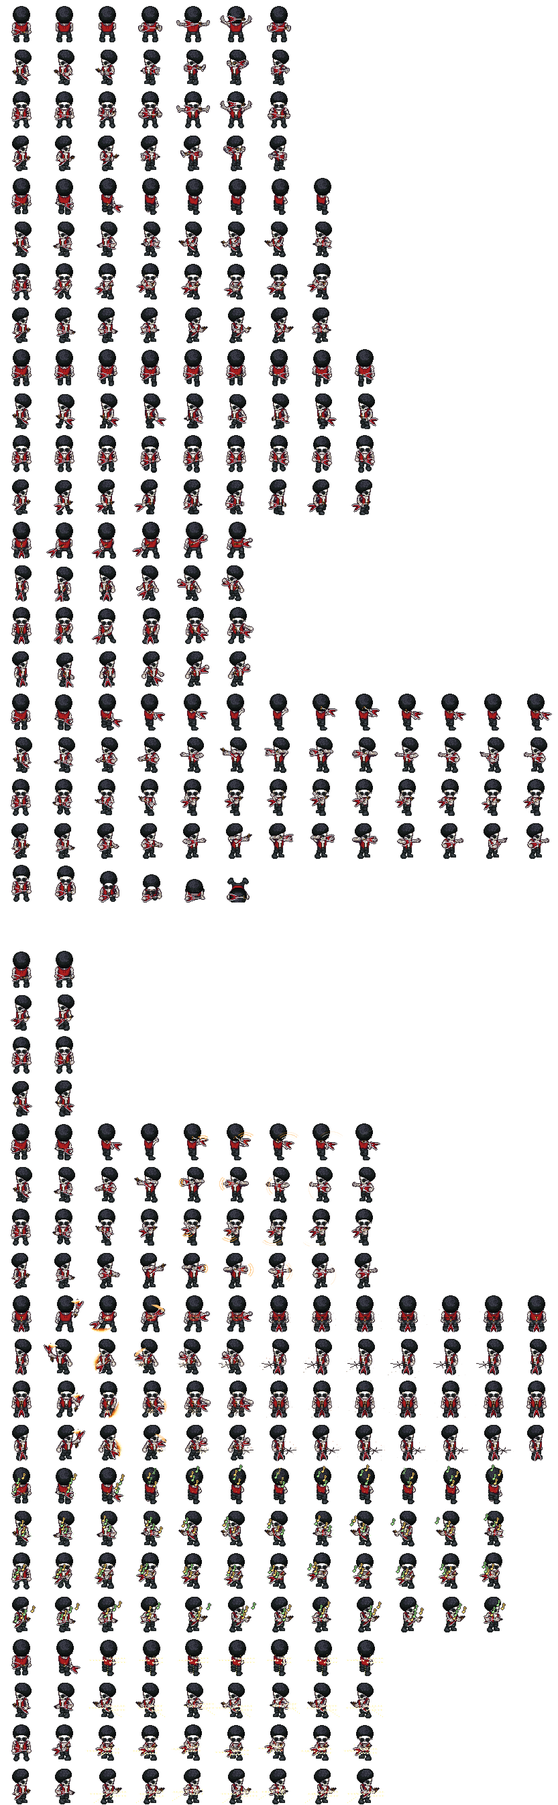
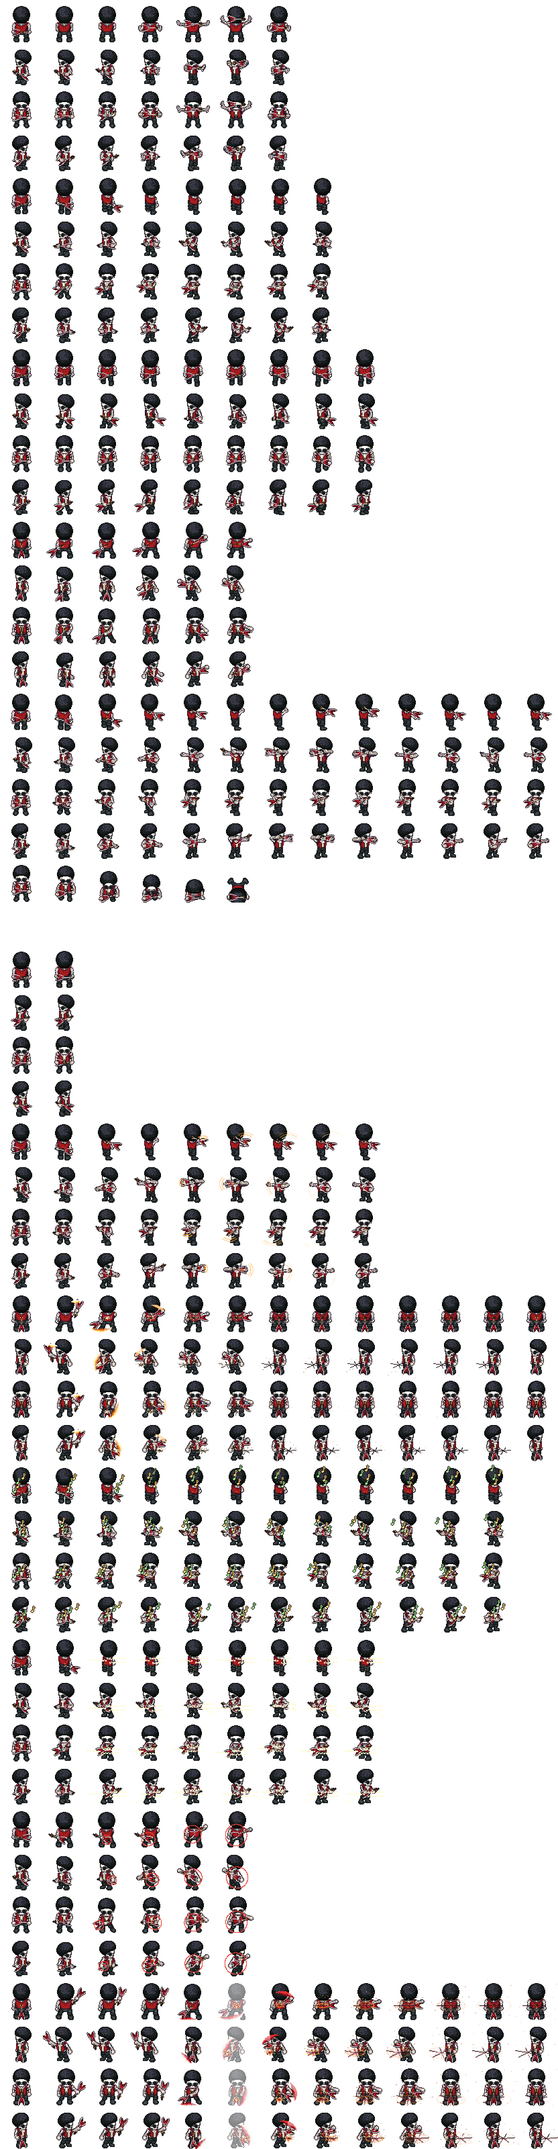
Riff Ossel : le Power chord (niveau 2) et le Solo de la hache (niveau 5) au terrain d'entraînement

diff --git a/src/entrainement/regles.js b/src/entrainement/regles.js
@@ -83,13 +83,14 @@ export const HEROS = {
     capacites: ['batonNoue', 'mueBete', 'mueCosa', 'mueIllumine', 'pousser', 'potion', 'relever'] },
   // Riff Ossel (content/classes/riff-ossel.json, par DonBabaa) : DEX 14 (+2), SAG 12 (+1), CHA 15 (+2), 110 PV, 6 cases (9 m),
   // le Rythme (+1 chaque fois qu'un allié attaque, 4 au plus, il retombe à 0 si aucun allié n'a attaqué de tout un tour).
-  // Riff (base, à 9 m ; au contact, le même coup à la hache) · Ballade (soutien) · Course effrénée (préparation). Pas de Power chord
-  // ni de Solo ici : ils viennent aux niveaux 2 et 5.
+  // Riff (base, à 9 m ; au contact, le même coup à la hache) · Ballade (soutien) · Course effrénée (préparation) ; le Power chord vient
+  // au niveau 2 et le Solo de la hache au niveau 5 (NIVEAU_RIFF, le réglage « riff.niveau » : le terrain les montre tous).
   'riff-ossel': { nom: 'Riff Ossel', court: 'RIF', auteur: 'DonBabaa', pv: 110, vitesse: 6, dex: 2, res: { type: 'Rythme', v: 1, max: 4 }, role: 'Soutien · rock à distance',
     faiblesse: 'Os fragiles : les dégâts de poussée, de mur et de chute lui font ×2.',
     passif: 'Rythme : +1 chaque fois qu’un allié attaque (4 au plus) ; il retombe à 0 si aucun allié n’a attaqué de tout un tour.',
-    capacites: ['riff', 'ballade', 'courseEffrenee', 'pousser', 'potion', 'relever'] },
+    capacites: ['riff', 'ballade', 'courseEffrenee', 'powerChord', 'solo', 'pousser', 'potion', 'relever'] },
 };
+export const NIVEAU_RIFF = { powerChord: 2, solo: 5 };
 export const RIFF = 'riff-ossel';
 // Les trois formes du Changepeau : leurs PV à elles et leur kit, qui remplace Bâton noué et la Mue (Pousser, la Potion et
 // Relever restent) ; « Quitter la forme » le rend orc, debout. Chacune a sa faiblesse.
@@ -107,7 +108,8 @@ export const capacitesDe = (a, b) => {
   const [S, x] = b === undefined ? [null, a] : [a, b];
   const u = typeof x === 'string' ? { type: x } : x;
   const base = u?.forme && FORMES[u.forme.id] ? [...FORMES[u.forme.id].capacites, 'pousser', 'potion', 'relever'] : HEROS[u?.type]?.capacites ?? [];
-  return S?.braseros?.some((br) => !br.renverse) ? [...base, 'renverser'] : base;
+  const lvl = lire('riff.niveau'), dispo = u?.type === RIFF ? base.filter((id) => !NIVEAU_RIFF[id] || lvl >= NIVEAU_RIFF[id]) : base;
+  return S?.braseros?.some((br) => !br.renverse) ? [...dispo, 'renverser'] : dispo;
 };
 const formeDe = (u) => u?.forme?.id ?? null;
 // Une classe faite par un joueur (« auteur » : son pseudo GitHub, comme dans content/classes/) ne se joue que par lui ;
@@ -222,6 +224,8 @@ export const CAPACITES = {
   riff: { nom: 'Riff', slot: 'action', type: 'attaque', portee: 6, mod: 2, base: 8, de: 4, anim: 'riff', animContact: 'contact', contact: true, ds: 'Portée 9 m · 5–7 / 11–14 / 22–28 ; au contact, le même coup à la hache (attaque d’opportunité)' },
   ballade: { nom: 'Ballade', slot: 'action', type: 'soin', portee: 6, soin: { base: 8, de: 4, mod: 1 }, retire: true, releve: true, anim: 'ballade',
     ds: 'Un allié à 9 m · 10–13 PV, sans jet ; retire Brûlure, Gelé ou Huilé · un allié KO : relevé à distance (2 Rythme, une fois par combat)' },
+  powerChord: { nom: 'Power chord', slot: 'bonus', type: 'puissance', portee: 6, cout: 1, anim: 'power', ds: '1 Rythme · la prochaine attaque d’un allié à 9 m fait +d6' },
+  solo: { nom: 'Solo de la hache', slot: 'action', type: 'attaque', portee: CONTACT, mod: 2, base: 14, de: 6, cout: 3, expose: true, recul: 3, anim: 'solo', ds: '3 Rythme · au contact : 15–20 / 30–40 · la cible est Exposée ; puis il bondit de 4,5 m en arrière, sans riposte' },
   courseEffrenee: { nom: 'Course effrénée', slot: 'bonus', type: 'course', portee: 6, cout: 1, anim: 'course', ds: '1 Rythme · un allié à 9 m gagne 3 m de déplacement ce tour et s’éloigne sans attaque d’opportunité' },
 };
 export const BABA = 'baba-brisenclume';
@@ -233,7 +237,7 @@ export const NOM_SURFACE = { eau: 'l’eau', huile: 'l’huile', feu: 'le feu', 
 export const NOM_PIEGE = { machoires: 'les mâchoires', glu: 'la glu', collet: 'le collet' };
 // Les capacités d'un héros dans ce combat : les siennes, plus « Renverser » tant qu'il reste un brasero debout.
 export const NOM_RESULTAT = { rate: 'Raté', eraflure: 'Éraflure', touche: 'Touché', critique: 'Critique' };
-export const NOM_ETAT = { surpris: 'Surpris', trempe: 'Trempé', huile: 'Huilé', brulure: 'Brûlure', gele: 'Gelé', aTerre: 'À terre', expose: 'Exposé', inspire: 'Inspiré', etourdi: 'Étourdi', lame: 'Lame ardente', bouclier: 'Trempe', ardent: 'Arme ardente', attire: 'Étreint' };
+export const NOM_ETAT = { puissance: 'Power chord', surpris: 'Surpris', trempe: 'Trempé', huile: 'Huilé', brulure: 'Brûlure', gele: 'Gelé', aTerre: 'À terre', expose: 'Exposé', inspire: 'Inspiré', etourdi: 'Étourdi', lame: 'Lame ardente', bouclier: 'Trempe', ardent: 'Arme ardente', attire: 'Étreint' };
 
 // --- Les surfaces : des taches sur une trame fine (un demi-pas de case), dessinées sans cases -----------------------
 const MAILLE = 0.5;
@@ -745,6 +749,7 @@ export function creerCombat({ trame, salle, departs, ennemis = null, tonneaux = 
     }
     cible.expose = false;
     if (att.st.inspire) delete att.st.inspire;          // le chant ne sert qu'une fois
+    const pc = att.st.puissance; if (pc) delete att.st.puissance;       // le Power chord aussi : sur le prochain coup, touché ou raté
     const qui = `${att.nom} → ${cible.nom} · ${A.nom}`;
     const label = A.auto ? 'critique assuré' : c.av ? `${jets[0]} et ${jets[1]} (${c.av === 1 ? 'avantage' : 'désavantage'}) → ${k}` : String(k);
     const mod = A.mod + c.haut;                         // (la hauteur s'ajoute au d20, comme la caractéristique)
@@ -760,6 +765,7 @@ export function creerCombat({ trame, salle, departs, ennemis = null, tonneaux = 
     const jet = d(A.de) + (A.de2 ? d(A.de2) : 0);
 
     let n = A.base + jet + A.dmod;
+    if (pc) { const b = d(6); n += b; log(`Power chord de ${U(pc.par)?.nom ?? 'Riff Ossel'} : +${b} aux dégâts.`, 'combo'); if (pc.par !== att.id) combo(pc.par, att.id, 'power chord'); flotter(att, `+${b} Power chord`, 'info'); }
     if (g === 'eraflure') n = Math.floor(n / 2);
     if (g === 'critique') n = Math.round(n * lire('des.critMult'));
     n = finalDeg(Math.round(n * c.mult), c.dm);
@@ -1847,7 +1853,7 @@ export function creerCombat({ trame, salle, departs, ennemis = null, tonneaux = 
     else if (cap.type === 'ombre') ennemisVivants().filter((u) => aPortee(h, cap, u) && sortieOmbre(h, u)).forEach((u) => out.push({ id: u.id }));
     else if (cap.type === 'bond') ennemisVivants().filter((u) => aPortee(h, cap, u) && atterrissage(h, u)).forEach((u) => out.push({ id: u.id }));
     else if (cap.type === 'ardent') herosVivants().filter((u) => u !== h && !u.familier && aPortee(h, cap, u)).forEach((u) => out.push({ id: u.id }));
-    else if (['inspiration', 'course'].includes(cap.type)) herosVivants().filter((u) => u !== h && dist(h, u) <= cap.portee).forEach((u) => out.push({ id: u.id }));
+    else if (['inspiration', 'course', 'puissance'].includes(cap.type)) herosVivants().filter((u) => u !== h && dist(h, u) <= cap.portee).forEach((u) => out.push({ id: u.id }));
     else if (cap.type === 'enclume') ennemisVivants().filter((u) => aPortee(h, cap, u)).forEach((u) => out.push({ id: u.id }));
     else if (cap.type === 'forge') herosVivants().filter((u) => !u.familier && (u === h || dist(h, u) <= CONTACT)).forEach((u) => out.push({ id: u.id }));
     else if (cap.type === 'tenailles') {
@@ -2001,6 +2007,7 @@ export function creerCombat({ trame, salle, departs, ennemis = null, tonneaux = 
         if (gain > 0) { h.forme.pv += gain; ev({ type: 'forme', id: h.id, pv: h.forme.pv, n: gain }); log(`${h.nom} dévore : +${gain} PV de forme.`, 'bon'); }
       }
       if (cap.curee && !h.ko && !h.mort) reculer(h, u, 2);
+      if (cap.recul && !h.ko && !h.mort) reculer(h, u, cap.recul);          // le Solo de la hache : le bond en arrière (4,5 m)
       return true;
     }
     if (cap.type === 'poussee') {
@@ -2109,6 +2116,13 @@ export function creerCombat({ trame, salle, departs, ennemis = null, tonneaux = 
       ev({ type: 'lance', id: h.id, cap: capId, anim: cap.anim, x: u.x, y: u.y });
       ev({ type: 'texte', id: u.id, texte: 'Inspiré !' });
       log(`${h.nom} chante pour ${u.nom} : avantage à sa prochaine attaque.`, 'bon');
+      return true;
+    }
+    if (cap.type === 'puissance' && u && u.camp === 'h' && !u.ko && !u.familier && u !== h && dist(h, u) <= cap.portee) {       // le Power chord
+      payer(h, cap); u.st.puissance = { par: h.id };
+      ev({ type: 'lance', id: h.id, cap: capId, anim: cap.anim, x: u.x, y: u.y });
+      ev({ type: 'texte', id: u.id, texte: '+d6 !' });
+      log(`${h.nom} lâche un power chord : la prochaine attaque de ${u.nom} fait +d6.`, 'bon');
       return true;
     }
     if (cap.type === 'course' && u && u.camp === 'h' && !u.ko && !u.familier && u !== h && dist(h, u) <= cap.portee) {       // la Course effrénée

diff --git a/src/entrainement/tests.js b/src/entrainement/tests.js
@@ -678,7 +678,8 @@ export async function selfTest(t, game) {
     t.ok(H.capacites.every((k) => CAPACITES[k] && icone(k)), 'chaque capacité a une icône');
     t.eq(['riff', 'riff-contact', 'ballade', 'courseEffrenee', 'pousser'].map((c) => sonDe('riff-ossel', c.split('-')[0], c.endsWith('contact') ? 'contact' : 'riff')), ['riff', 'riff-melee', 'ballade', 'course', null], 'ses sons : le Riff, le Fracas au contact, la Ballade, la Course effrénée');
     t.ok(sonDe('brute', 'fracas', 'attaque') === null, 'les autres classes n’ont pas de son (pour l’instant)');
-    t.eq(ordreBarre(H.capacites, CAPACITES).slice(0, 3), ['riff', 'courseEffrenee', 'ballade'], 'sa barre : Riff (attaque), Course effrénée (préparation), Ballade (soutien)');
+    t.eq(ordreBarre(H.capacites, CAPACITES).slice(0, 5), ['riff', 'courseEffrenee', 'solo', 'ballade', 'powerChord'], 'sa barre : Riff (attaque), Course effrénée (préparation), Solo (exploitation), Ballade et Power chord (soutien)');
+    t.eq(['powerChord', 'solo'].map((c) => sonDe('riff-ossel', c, 'x')), ['power', 'solo'], 'ses sons : le Power chord et le Solo de la hache');
   }
   const riff = (o = {}) => {
     const C = essai(['riff-ossel', 'brute', 'voleur', 'mage'], { alea: des(Array(60).fill(15)), ...o });
@@ -732,6 +733,40 @@ export async function selfTest(t, game) {
     r.res.v = 2; const mv = b.t.mv;
     t.ok(C.utiliser(r, 'courseEffrenee', { id: b.id }) && b.t.mv === mv + 2 && b.t.desengage && r.res.v === 1, 'la Course effrénée : l’allié gagne 3 m et s’éloigne sans attaque d’opportunité, pour 1 Rythme');
     t.ok(!r.t.bonus, 'elle prend l’action bonus');
+  }
+  {
+    // le Power chord (niveau 2) : 1 Rythme, action bonus ; la prochaine attaque de l'allié fait +d6, une seule fois
+    const { C, r, b, s } = riff();
+    r.res.v = 2; poser(C, b.id, 8.4, 10);
+    t.ok(C.cibles(r, CAPACITES.powerChord).some((x) => x.id === b.id) && !C.cibles(r, CAPACITES.powerChord).some((x) => x.id === r.id), 'le Power chord vise un allié à 9 m, pas Riff lui-même');
+    t.ok(C.utiliser(r, 'powerChord', { id: b.id }) && b.st.puissance && r.res.v === 1 && !r.t.bonus && r.t.action, 'il coûte 1 Rythme et l’action bonus (pas l’action)');
+    poser(C, s.id, 9.5, 10); const pv = s.pv, ok = C.utiliser(b, 'fracas', { id: s.id });
+    t.ok(ok && !b.st.puissance && pv - s.pv > 0, `la prochaine attaque de la Brute porte (${pv - s.pv} dégâts, avec le +d6) et le Power chord s’éteint`);
+    r.res.v = 0; r.t.bonus = true;
+    t.ok(!C.peutUtiliser(r, CAPACITES.powerChord), 'sans Rythme, pas de Power chord');
+  }
+  {
+    // le Solo de la hache (niveau 5) : 3 Rythme, au contact ; 14 + d6 + DEX, la cible est Exposée, puis le bond de 4,5 m en arrière
+    const { C, r, s } = riff();
+    r.res.v = 4; poser(C, r.id, 10.0, 10); poser(C, s.id, 11.1, 10);
+    t.ok(C.cibles(r, CAPACITES.solo).some((x) => x.id === s.id), 'le Solo vise l’ennemi au contact');
+    const pv = s.pv; C.S.evenements.length = 0;
+    t.ok(C.utiliser(r, 'solo', { id: s.id }) && r.res.v === 1 && !r.t.action, 'il coûte 3 Rythme et l’action');
+    t.ok(C.S.evenements.some((e) => e.type === 'attaque' && e.cap === 'solo' && e.anim === 'solo'), 'son animation « solo »');
+    t.ok(pv - s.pv >= 17 && s.expose, `il fait ${pv - s.pv} dégâts (17–22) et la cible est Exposée`);
+    const bond = dist(r, s) - 0.73;
+    t.ok(dist(r, { x: 10.0, y: 10 }) > 2.5 && dist(r, { x: 10.0, y: 10 }) <= 3 + 0.01 && bond > 0, `puis il bondit en arrière : ${(dist(r, { x: 10.0, y: 10 }) * 1.5).toFixed(1)} m`);
+    t.ok(C.S.evenements.some((e) => e.type === 'marche' && e.id === r.id), 'le bond se voit (un déplacement)');
+    r.res.v = 2; r.t.action = true; poser(C, r.id, 10.0, 10); poser(C, s.id, 11.1, 10);
+    t.ok(!C.peutUtiliser(r, CAPACITES.solo) || C.cibles(r, CAPACITES.solo).length === 0 || r.res.v < 3, 'sans 3 Rythme, pas de Solo');
+    t.ok(C._.attaqueReflexe(r)?.id === 'riff', 'le Solo n’est pas son attaque d’opportunité : c’est le Riff');
+  }
+  {
+    // le niveau : le Power chord vient au 2, le Solo au 5 (le réglage « riff.niveau », 5 au terrain)
+    const tous = (n) => { REG.regler('riff.niveau', n); return capacitesDe('riff-ossel').filter((k) => ['powerChord', 'solo'].includes(k)); };
+    const n1 = tous(1), n2 = tous(2), n5 = tous(5); REG.regler('riff.niveau', 5);
+    t.eq([n1, n2, n5], [[], ['powerChord'], ['powerChord', 'solo']], 'niveau 1 : ni l’un ni l’autre · niveau 2 : le Power chord · niveau 5 : le Solo aussi');
+    t.ok(capacitesDe('brute').length === 6 && !capacitesDe('mage').includes('solo'), 'les autres classes ne changent pas');
   }
   {
     // Os fragiles : poussée, mur et chute lui font ×2

diff --git a/src/entrainement/effets.js b/src/entrainement/effets.js
@@ -99,6 +99,7 @@ export function effetsAttaque(fx, cap, a, c, ennemi) {
     case 'devorer': taille('croissant-lourd'); return impact('impact-lourd', { x: c.x, y: c.y }, 0.26);
     case 'braise': return impact('impact-feu', t, projectile('boule-etincelle', m, 0.3));
     // Riff Ossel : une note qui file jusqu'à la cible ; au contact, le coup de hache (le Fracas : l'impact lourd)
+    case 'solo': taille('croissant-lourd'); return impact('impact-lourd', { x: c.x, y: c.y }, 0.4);      // le Solo de la hache : le Fracas dramatique
     case 'riff':
       if (Math.hypot(c.x - a.x, c.y - a.y) < 70) return impact('impact-lourd', { x: c.x, y: c.y }, 0.3);
       return impact('impact-etoile', t, projectile('note', { x: a.x + 14 * sens, y: a.y - 34 }, 0.32, 8));
@@ -132,6 +133,7 @@ export function effetsLance(fx, cap, a, p, u) {
     case 'armesArdentes': { const q = torse(u ?? p), d = vol(m, q); fx.jouer('boule-etincelle', { ...m, vers: q, retard: 0.25, duree: d, arc: 14 }); fx.jouer('impact-feu', { ...q, retard: 0.25 + d }); return 0.25 + d + 0.05; }
     case 'liane': fx.jouer('estoc', { x: a.x + 10 * sens, y: a.y - 28, retard: 0.25, miroir }); fx.jouer('poussiere', { x: p.x, y: p.y, retard: 0.35 }); return 0.45;
     case 'ballade': fx.jouer('colonne-verte', { x: p.x, y: p.y, retard: 0.4 }); fx.jouer('note', { ...m, vers: tete({ x: p.x, y: p.y }), retard: 0.3, duree: vol(m, p) * 1.4, arc: 10 }); return 0.6;
+    case 'powerChord': { const q = tete({ x: p.x, y: p.y }); fx.jouer('impact-etoile', { x: p.x, y: p.y - 24, retard: 0.4 }); fx.jouer('note', { ...m, vers: q, retard: 0.3, duree: vol(m, q) * 1.2, arc: 12 }); return 0.55; }
     case 'courseEffrenee': { const q = tete({ x: p.x, y: p.y }); fx.jouer('impact-etoile', { x: p.x, y: p.y - 24, retard: 0.45 }); fx.jouer('note', { ...m, vers: q, retard: 0.3, duree: vol(m, q) * 1.2, arc: 6 }); return 0.55; }
     case 'chant': { const q = tete({ x: p.x, y: p.y }); let fin = 0; for (let k = 0; k < 3; k++) { const d = vol(m, q) * 1.4; fx.jouer('note', { ...m, vers: q, retard: 0.2 + k * 0.15, duree: d, arc: 10 }); fin = 0.2 + k * 0.15 + d; } return fin; }
     case 'moquerie': { const q = tete({ x: p.x, y: p.y }), d = vol(m, q) * 1.3; fx.jouer('bulle-moquerie', { x: a.x, y: a.y - 56, vers: q, retard: 0.2, duree: d, arc: 12 }); fx.jouer('colere', { x: q.x + 8, y: q.y - 4, retard: 0.2 + d, duree: 0.9 }); return 0.2 + d + 0.1; }

diff --git a/src/entrainement/fiches.js b/src/entrainement/fiches.js
@@ -21,7 +21,7 @@ const ICONES = {
   batonNoue: 'baton', mueBete: 'mue', mueCosa: 'mue', mueIllumine: 'mue', quitterForme: 'mue',
   crocs: 'crocs', bond: 'bond', curee: 'curee', poing: 'poing', etreinte: 'liane', devorer: 'devorer',
   braise: 'etincelle', embrasement: 'embrasement', armesArdentes: 'lameArdente',
-  riff: 'tirRapide', ballade: 'soin', courseEffrenee: 'chant',          // (en attendant leurs icônes à eux)
+  riff: 'tirRapide', ballade: 'soin', courseEffrenee: 'chant', powerChord: 'ralliement', solo: 'fracas',          // (en attendant leurs icônes à eux)
 };
 // La sorte de chaque capacité, pour la barre des sorts (les sortes de CLASS_TEMPLATE.fr.md, plus le familier et le commun).
 // Une capacité absente d'ici prend sa sorte d'après ce qu'elle fait (sorteDe).
@@ -46,7 +46,7 @@ const SORTE = {
 export function sorteDe(id, cap) {
   if (SORTE[id]) return SORTE[id];
   if (cap.chien) return 'familier';
-  if (['soin', 'soinZone', 'inspiration'].includes(cap.type)) return 'soutien';
+  if (['soin', 'soinZone', 'inspiration', 'puissance'].includes(cap.type)) return 'soutien';
   if (cap.type === 'attaque') return cap.cout || cap.contreGele ? 'exploitation' : 'base';
   return 'preparation';
 }
@@ -115,6 +115,7 @@ export function resume(cap) {
     case 'attraction': return `attire ${metres(cap.longueur)} m`;
     case 'inspiration': return 'avantage';
     case 'course': return '+3 m · désengagé';
+    case 'puissance': return '+d6 au prochain coup';
     case 'forge': return cap.forge === 'lame' ? '+d6 · feu' : 'bouclier 10';
     case 'tenailles': return `attire ${metres(cap.longueur)} m`;
     case 'moquerie': return 'Exposé';

diff --git a/src/entrainement/vue.js b/src/entrainement/vue.js
@@ -26,7 +26,7 @@ export const always = true;
 const DIR = { haut: 0, gauche: 1, bas: 2, droite: 3 };
 // Les rangées LPC (64 px) et leur nombre d'images : sort, estoc, marche, taille, tir, blessé, repos.
 // (riff, contact, ballade, course : les animations de Riff Ossel, une par sort, sous les rangées LPC de sa planche)
-const ANIM = { sort: [0, 7], estoc: [4, 8], marche: [8, 9], attaque: [12, 6], tir: [16, 13], blesse: [20, 6], repos: [22, 2], riff: [26, 9], contact: [30, 13], ballade: [34, 12], course: [38, 9] };
+const ANIM = { sort: [0, 7], estoc: [4, 8], marche: [8, 9], attaque: [12, 6], tir: [16, 13], blesse: [20, 6], repos: [22, 2], riff: [26, 9], contact: [30, 13], ballade: [34, 12], course: [38, 9], power: [42, 6], solo: [46, 13] };
 const VITESSE_MARCHE = 5 * T;          // 5 cases par seconde à l'écran (le temps réel du jeu, pas la règle)
 const COULEURS = {
   eau: [[46, 120, 196], [70, 150, 220], [148, 206, 244], [24, 78, 140]],

diff --git a/src/entrainement/etats.js b/src/entrainement/etats.js
@@ -9,6 +9,7 @@ export const DOSSIER_ETATS = './assets/lpc/etats/';
 // compte(u) : les tours qui restent (le nombre sous l'icône), ou null s'il n'y en a pas.
 const SENS = [
   { id: 'inspire', genre: 'bonus', effet: () => 'Avantage à sa prochaine attaque.', compte: () => null },
+  { id: 'puissance', genre: 'bonus', icone: 'lame', effet: () => 'Sa prochaine attaque fait +d6 (le Power chord de Riff Ossel).', compte: () => null },
   { id: 'lame', genre: 'bonus', effet: () => 'Sa prochaine attaque fait +d6 et compte comme du feu (Huilé ×2, enflamme l’huile).', compte: () => null },
   { id: 'ardent', genre: 'bonus', icone: 'lame', effet: () => 'Ses coups donnent la Brûlure et enflamment l’huile (les Armes ardentes de l’Illuminé).', compte: (u) => u.st.ardent?.n ?? null },
   { id: 'bouclier', genre: 'bonus', effet: (u) => `Les ${u.st.bouclier?.v ?? 0} prochains dégâts sont pour le bouclier.`, compte: (u) => u.st.bouclier?.v ?? null },

diff --git a/src/entrainement/reglages-combat.js b/src/entrainement/reglages-combat.js
@@ -40,6 +40,7 @@ export const DEFS = [
   N('degats.heros', 'difficulte', 2, 'Dégâts des héros', '×', 1, 0.25, 3, 0.05),
   N('degats.ennemis', 'difficulte', 2, 'Dégâts des ennemis', '×', 1, 0.25, 3, 0.05),
   N('releve.pv', 'difficulte', 2, 'PV d’un allié relevé', 'PV', 25, 1, 150, 1),
+  N('riff.niveau', 'difficulte', 2, 'Niveau de Riff Ossel (Power chord au 2, Solo de la hache au 5)', '', 5, 1, 9, 1),
   N('potion.nb', 'difficulte', 2, 'Potions par héros', '', 1, 0, 5, 1),
   N('potion.soin', 'difficulte', 2, 'Soin d’une potion', 'PV', 20, 1, 100, 1),
   // --- Hasard ---

diff --git a/src/entrainement/sons.js b/src/entrainement/sons.js
@@ -7,7 +7,7 @@ export const DOSSIER = './assets/sons/riff-ossel/';
 export function sonDe(type, cap, anim) {
   if (type !== 'riff-ossel') return null;
   if (cap === 'riff') return anim === 'contact' ? 'riff-melee' : 'riff';
-  return { ballade: 'ballade', courseEffrenee: 'course' }[cap] ?? null;
+  return { ballade: 'ballade', courseEffrenee: 'course', powerChord: 'power', solo: 'solo' }[cap] ?? null;
 }
 const lecteurs = new Map();
 export function jouerSon(nom) {

diff --git a/design/classes/riff-ossel/outil/planche.py b/design/classes/riff-ossel/outil/planche.py
@@ -1,7 +1,7 @@
 # La feuille de Riff Ossel pour le terrain d'entraînement : le format LPC que lit la vue (13 colonnes de 64 px) :
 #   sort 0-3 · estoc 4-7 · marche 8-11 · attaque 12-15 · tir 16-19 · blessé 20 · repos 22-25,
 # puis ses animations à lui, une par sort (4 directions chacune : dos, gauche, face, droite) :
-#   riff 26 (9 images) · contact 30 (le Fracas, 13 images) · ballade 34 (12) · course 38 (9)
+#   riff 26 (9 images) · contact 30 (le Fracas, 13 images) · ballade 34 (12) · course 38 (9) · power 42 (6) · solo 46 (13, le Fracas dramatique)
 #   python planche.py   ->  ../../../../public/assets/lpc/entrainement/riff-ossel.png
 import numpy as np
 from PIL import Image
@@ -9,7 +9,7 @@ from animer import pose
 import scenes
 
 COL = 13
-RANGEES = 42
+RANGEES = 50
 sheet = np.zeros((64 * RANGEES, 64 * COL, 4), 'uint8')
 
 
@@ -40,6 +40,15 @@ sorts(26, scenes.riff_garde)
 sorts(30, scenes.riff_melee, garder=[0] + list(range(2, 14)))      # le Fracas : 14 images, une de moins pour tenir en 13
 sorts(34, scenes.ballade)
 sorts(38, scenes.course)
+sorts(42, scenes.power)
+
+
+def solo_sans_bond(d):       # le Solo : le Fracas dramatique (le bond en arrière, c'est le moteur qui déplace le héros)
+    from fracas import fracas
+    return fracas(d, dram=True)
+
+
+sorts(46, solo_sans_bond, garder=[0] + list(range(2, 14)))
 
 Image.fromarray(sheet, 'RGBA').save('../../../../public/assets/lpc/entrainement/riff-ossel.png')
 Image.fromarray(sheet, 'RGBA').resize((64 * COL * 2, 64 * RANGEES * 2), Image.NEAREST).crop((0, 0, 64 * COL * 2, 64 * RANGEES * 2)).save('../essais/planche-terrain.png')

diff --git a/CREDITS.md b/CREDITS.md
@@ -29,6 +29,7 @@ Tout ce qui est dans le jeu et qui n'a pas été fait par l'équipe, avec sa sou
 | Mope, l'ancien changepeau (classe de l'armurerie, par Mope), sous sa forme d'orc ; l'avant-bras bandé et enchaîné, la bouche cousue et les trous des habits sont peints image par image par `design/classes/changepeau/outil/orc.py` | `public/assets/lpc/entrainement/changepeau.png` | [Universal LPC Spritesheet Character Generator](https://liberatedpixelcup.github.io/Universal-LPC-Spritesheet-Character-Generator/), pièce par pièce depuis son dépôt (le lien du personnage est dans `src/entrainement/persos.json`) | une liste par pièce dans `credits/entrainement-changepeau.txt` ; les retouches : l'équipe | OGA-BY 3.0, CC-BY-SA 3.0 ou GPL 3.0 selon la pièce |
 | Les trois formes du changepeau (la Bête, la Cosa, l'Illuminé), planches de design sous quatre faces ; au terrain, les mêmes réduites à 64 px par face (sans retouche) | `design/classes/changepeau/formes/*.png` ; `public/assets/lpc/entrainement/formes/*.png` (crédits : `public/assets/credits/entrainement-changepeau-formes.txt`) | le générateur LPC : corps homme, musclé et zombie, têtes de loup, de zombie et d'humain, queue de chat ; reteints et retouchés par `design/classes/changepeau/outil/maquettes/` | une liste par pièce dans `design/classes/changepeau/formes/credits.txt` ; les retouches : l'équipe | OGA-BY 3.0, CC-BY-SA 3.0 ou GPL 3.0 selon la pièce |
 | Riff Ossel (classe de l'armurerie, par DonBabaa) : le squelette rockeur ; la guitare-hache V, les mains par-dessus, une animation par sort et leurs effets sont peints image par image par `design/classes/riff-ossel/outil/` (`planche.py` assemble la feuille) | `public/assets/lpc/entrainement/riff-ossel.png` | [Universal LPC Spritesheet Character Generator](https://liberatedpixelcup.github.io/Universal-LPC-Spritesheet-Character-Generator/), pièce par pièce | une liste par pièce dans `credits/entrainement-riff-ossel.txt` ; les retouches : DonBabaa | OGA-BY 3.0, CC-BY-SA 3.0 ou GPL 3.0 selon la pièce |
+| Les sons de Riff Ossel (riff, riff au contact, ballade, course, power chord, solo) : des clips générés avec Suno à partir de prompts de DonBabaa, découpés par `design/classes/riff-ossel/son/decoupe.html` | `public/assets/sons/riff-ossel/*.wav` | [Suno](https://suno.com) (clips générés par DonBabaa) | DonBabaa | à confirmer selon l'offre Suno de DonBabaa (usage commercial : plan payant) |
 | Les curseurs du terrain d'entraînement : l'arme seule de chacun des 8 héros (sans la main), prise sur les calques d'arme du générateur, une image de sa marche, de sa garde ou de son estoc | `public/assets/lpc/entrainement/armes/*.png` | [Universal LPC Spritesheet Character Generator](https://liberatedpixelcup.github.io/Universal-LPC-Spritesheet-Character-Generator/) | les lignes « weapon » de `credits/entrainement-<id>.txt` | OGA-BY 3.0, CC-BY-SA 3.0 ou GPL 3.0 selon la pièce |
 | Les ennemis et les boss de `ENNEMIS.fr.md` (32 planches complètes, à valider), montrés dans les Archives du camp | `public/assets/lpc/ennemis/<id>/planche.png` | [Universal LPC Spritesheet Character Generator](https://liberatedpixelcup.github.io/Universal-LPC-Spritesheet-Character-Generator/), importés avec `lpc-sprite-mods` (le lien de chacun est dans `content/ennemis/<id>.json` et en tête de ses crédits) | une liste par pièce dans `public/assets/lpc/ennemis/<id>/credits.txt` | OGA-BY 3.0, CC-BY-SA 3.0 ou GPL 3.0 selon la pièce |
 | La petite tente des archives, sa potence et son enseigne au livre | `public/assets/lpc/decorations-medieval.png` (découpées par `src/tente.js`) | [[LPC] Medieval Village Decorations](https://opengameart.org/content/lpc-medieval-village-decorations) | bluecarrot16, Lanea Zimmerman (Sharm), Reemax et 17 autres (`credits/decorations-medieval.txt`) | CC-BY-SA 3.0 et 4.0 |

diff --git a/design/classes/riff-ossel/README.fr.md b/design/classes/riff-ossel/README.fr.md
@@ -54,7 +54,8 @@ Le niveau 6 est le coup d'équipe (à écrire avec une autre classe). Le niveau 
 
 ## Au terrain d'entraînement
 
-- **Classe jouable** (13e) : `src/entrainement/regles.js` (`HEROS['riff-ossel']`, ses trois sorts de départ, le Rythme, les Os fragiles) ; elle ne se joue que par son auteur (DonBabaa).
-- **Feuille** : `python outil/planche.py` (depuis `outil/`) écrit `public/assets/lpc/entrainement/riff-ossel.png` : les rangées LPC (marche, repos, blessé…) avec la guitare, puis une animation par sort (rangées 26 à 41 : Riff, Riff au contact = le Fracas, Ballade, Course effrénée).
-- **Pas encore au terrain** : le Power chord (niveau 2) et le Solo de la hache (niveau 5), les sous-classes ; les sons de Rythme, blessé et K.O. sont de synthèse (`src/entrainement/sons-synthese.js`), à remplacer par des enregistrements ; des icônes à lui (il emprunte celles du tir rapide, du soin et du chant).
+- **Classe jouable** (13e) : `src/entrainement/regles.js` (`HEROS['riff-ossel']`, ses cinq sorts, le Rythme, les Os fragiles) ; elle ne se joue que par son auteur (DonBabaa).
+- **Feuille** : `python outil/planche.py` (depuis `outil/`) écrit `public/assets/lpc/entrainement/riff-ossel.png` : les rangées LPC (marche, repos, blessé…) avec la guitare, puis une animation par sort (rangées 26 à 49 : Riff, Riff au contact = le Fracas, Ballade, Course effrénée, Power chord, Solo = le Fracas dramatique).
+- **Les niveaux** : le Power chord (niveau 2, 1 Rythme, action bonus : +d6 à la prochaine attaque d'un allié à 9 m) et le Solo de la hache (niveau 5, 3 Rythme, au contact : 14 + d6 + DEX, cible Exposée, puis bond de 4,5 m en arrière, à l'opposé de la cible) sont au terrain. Le terrain n'a pas de niveaux de héros : le réglage « Niveau de Riff Ossel » (Réglages, difficulté ; 5 par défaut) les montre ou les cache (1 : ni l'un ni l'autre, 2 : le Power chord, 5 : les deux).
+- **Pas encore au terrain** : le Final de concert (niveau 9), les sous-classes ; les sons de Rythme, blessé et K.O. sont de synthèse (`src/entrainement/sons-synthese.js`), à remplacer par des enregistrements ; des icônes à lui (il emprunte celles du tir rapide, du soin et du chant).
 - Vérifié : `?test` terrain 507/507, armurerie 98/98, archives 47/47 ; image de chaque sort : `node tools/riff_capture.mjs` (dans `shots/`).
